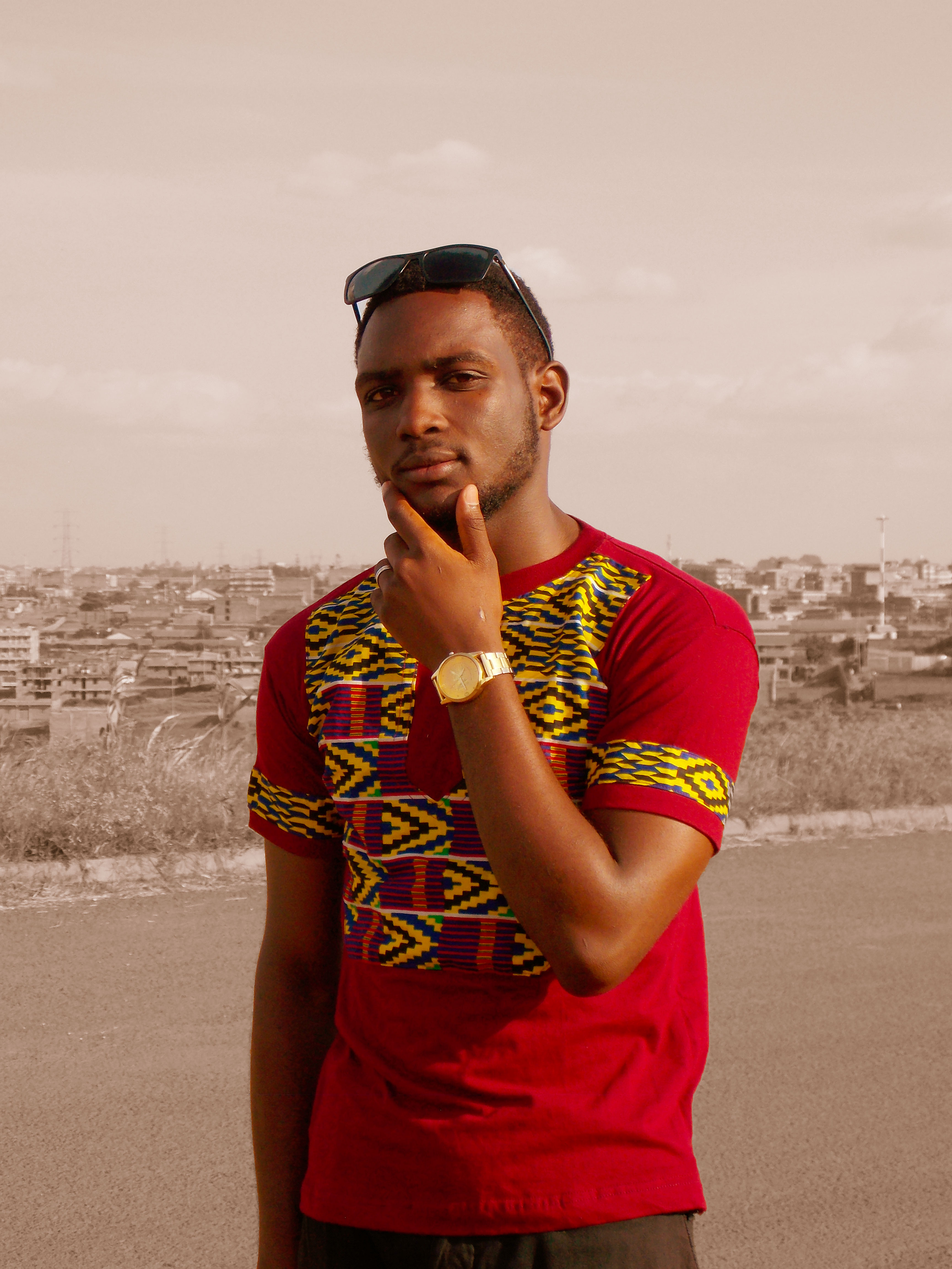
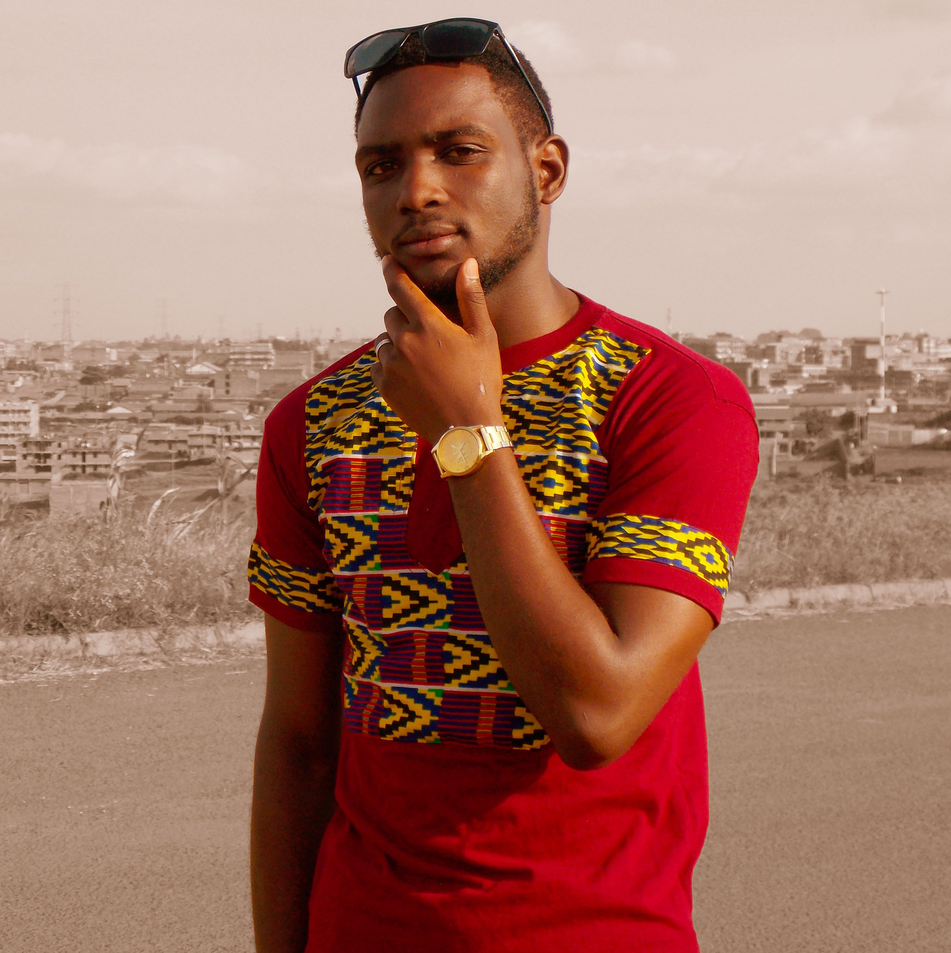
style men html page

diff --git a/men.html b/men.html
@@ -33,81 +33,52 @@
         <!--       container -->
         <div class="cards">
             <div class="card">
-                <img src="/img/img4.jpg">
+                <img src="/img/img1-men.jpg">
                 <div class="card-title">
                     <a href="#" class="toggle-info btn"> <span class="left"></span> <span class="right"></span> </a>
-                    <h2> Card title</h2>
+                    <h2>Men Red T-shirt</h2>
                 </div>
                 <div class="card-flap flap1">
-                    <div class="card-description"> This grid is an attempt to make something nice that works on touch devices. Ignoring hover states when they're not available etc.
-                    </div>
+                    <div class="card-description"></div>
                     <div class="card-flap flap2">
 <!--                        <div class="card-actions"> <a href="#" class="btn">Read more</a> </div>-->
                     </div>
                 </div>
             </div>
             <div class="card">
-               <img src="/img/img-3.jpg">
+               <img src="/img/img2-men.jpg">
                 <div class="card-title">
                     <a href="#" class="toggle-info btn"> <span class="left"></span> <span class="right"></span> </a>
-                    <h2> Card title</h2>
+                    <h2>Men Blue T-shirt</h2>
                 </div>
                 <div class="card-flap flap1">
-                    <div class="card-description"> This grid is an attempt to make something nice that works on touch devices. Ignoring hover states when they're not available etc.
-                    </div>
+                    <div class="card-description"></div>
                     <div class="card-flap flap2">
 <!--                        <div class="card-actions"> <a href="#" class="btn">Read more</a> </div>-->
                     </div>
                 </div>
             </div>
             <div class="card">
-               <img src="/img/img-1.jpg">
+               <img src="/img/img3-scarf.jpg">
                 <div class="card-title">
                     <a href="#" class="toggle-info btn"> <span class="left"></span> <span class="right"></span> </a>
-                    <h2> Card title</h2>
+                    <h2>Men Tshirt with scarf</h2>
                 </div>
                 <div class="card-flap flap1">
-                    <div class="card-description"> This grid is an attempt to make something nice that works on touch devices. Ignoring hover states when they're not available etc.
-                    </div>
+                    <div class="card-description"></div>
                     <div class="card-flap flap2">
 <!--                        <div class="card-actions"> <a href="#" class="btn">Read more</a> </div>-->
                     </div>
                 </div>
             </div>
-            <div class="card"> <img src="/img/img-2.jpg">
+            <div class="card">
+                <img src="/img/img1-men.jpg">
                 <div class="card-title">
                     <a href="#" class="toggle-info btn"> <span class="left"></span> <span class="right"></span> </a>
-                    <h2> Card title</h2>
+                    <h2>Men's Red T-shirt</h2>
                 </div>
                 <div class="card-flap flap1">
-                    <div class="card-description"> This grid is an attempt to make something nice that works on touch devices. Ignoring hover states when they're not available etc.
-                    </div>
-                    <div class="card-flap flap2">
-<!--                        <div class="card-actions"> <a href="#" class="btn">Read more</a> </div>-->
-                    </div>
-                </div>
-            </div>
-            <div class="card"> <img src="/img/img-ladies.jpg">
-                <div class="card-title">
-                    <a href="#" class="toggle-info btn"> <span class="left"></span> <span class="right"></span> </a>
-                    <h2> Card title</h2>
-                </div>
-                <div class="card-flap flap1">
-                    <div class="card-description"> This grid is an attempt to make something nice that works on touch devices. Ignoring hover states when they're not available etc.
-                    </div>
-                    <div class="card-flap flap2">
-<!--                        <div class="card-actions"> <a href="#" class="btn">Read more</a> </div>-->
-                    </div>
-                </div>
-            </div>
-            <div class="card"> <img src="/img/img1.jpg">
-                <div class="card-title">
-                    <a href="#" class="toggle-info btn"> <span class="left"></span> <span class="right"></span> </a>
-                    <h2> Card title</h2>
-                </div>
-                <div class="card-flap flap1">
-                    <div class="card-description"> This grid is an attempt to make something nice that works on touch devices. Ignoring hover states when they're not available etc.
-                    </div>
+                    <div class="card-description"></div>
                     <div class="card-flap flap2">
 <!--                        <div class="card-actions"> <a href="#" class="btn">Read more</a> </div>-->
                     </div>
@@ -116,37 +87,58 @@
             <div class="card"> <img src="/img/img2-men.jpg">
                 <div class="card-title">
                     <a href="#" class="toggle-info btn"> <span class="left"></span> <span class="right"></span> </a>
-                    <h2> Card title</h2>
+                    <h2>Men's Blue T-shirt</h2>
                 </div>
                 <div class="card-flap flap1">
-                    <div class="card-description"> This grid is an attempt to make something nice that works on touch devices. Ignoring hover states when they're not available etc.
-                    </div>
+                    <div class="card-description"></div>
                     <div class="card-flap flap2">
 <!--                        <div class="card-actions"> <a href="#" class="btn">Read more</a> </div>-->
                     </div>
                 </div>
             </div>
-            <div class="card"> <img src="/img/img3.jpg">
+            <div class="card"> <img src="/img/img3-scarf.jpg">
                 <div class="card-title">
                     <a href="#" class="toggle-info btn"> <span class="left"></span> <span class="right"></span> </a>
-                    <h2> Card title</h2>
+                    <h2>Men's Scarf</h2>
                 </div>
                 <div class="card-flap flap1">
-                    <div class="card-description"> This grid is an attempt to make something nice that works on touch devices. Ignoring hover states when they're not available etc.
-                    </div>
+                    <div class="card-description"></div>
                     <div class="card-flap flap2">
 <!--                        <div class="card-actions"> <a href="#" class="btn">Read more</a> </div>-->
                     </div>
                 </div>
             </div>
-            <div class="card"> <img src="img/img4.jpg">
+            <div class="card"> <img src="/img/img1-men.jpg">
                 <div class="card-title">
                     <a href="#" class="toggle-info btn"> <span class="left"></span> <span class="right"></span> </a>
-                    <h2> Card title</h2>
+                    <h2>Men's Red T-shirt</h2>
                 </div>
                 <div class="card-flap flap1">
-                    <div class="card-description"> This grid is an attempt to make something nice that works on touch devices. Ignoring hover states when they're not available etc.
+                    <div class="card-description"></div>
+                    <div class="card-flap flap2">
+<!--                        <div class="card-actions"> <a href="#" class="btn">Read more</a> </div>-->
                     </div>
+                </div>
+            </div>
+            <div class="card"> <img src="/img/img3-scarf.jpg">
+                <div class="card-title">
+                    <a href="#" class="toggle-info btn"> <span class="left"></span> <span class="right"></span> </a>
+                    <h2>Men's Scarf</h2>
+                </div>
+                <div class="card-flap flap1">
+                    <div class="card-description"></div>
+                    <div class="card-flap flap2">
+<!--                        <div class="card-actions"> <a href="#" class="btn">Read more</a> </div>-->
+                    </div>
+                </div>
+            </div>
+            <div class="card"> <img src="img/img2-men.jpg">
+                <div class="card-title">
+                    <a href="#" class="toggle-info btn"> <span class="left"></span> <span class="right"></span> </a>
+                    <h2>Men's Blue T-shirt</h2>
+                </div>
+                <div class="card-flap flap1">
+                    <div class="card-description"></div>
                     <div class="card-flap flap2">
 <!--                        <div class="card-actions"> <a href="#" class="btn">Read more</a> </div>-->
                     </div>
@@ -155,37 +147,34 @@
             <div class="card"> <img src="img/img3-scarf.jpg">
                 <div class="card-title">
                     <a href="#" class="toggle-info btn"> <span class="left"></span> <span class="right"></span> </a>
-                    <h2> Card title</h2>
+                    <h2>Mens Scarf</h2>
                 </div>
                 <div class="card-flap flap1">
-                    <div class="card-description"> This grid is an attempt to make something nice that works on touch devices. Ignoring hover states when they're not available etc.
-                    </div>
+                    <div class="card-description"></div>
                     <div class="card-flap flap2">
 <!--                        <div class="card-actions"> <a href="#" class="btn">Read more</a> </div>-->
                     </div>
                 </div>
             </div>
-            <div class="card"> <img src="img/logo.jpg">
+            <div class="card"> <img src="img/img1-men.jpg">
                 <div class="card-title">
                     <a href="#" class="toggle-info btn"> <span class="left"></span> <span class="right"></span> </a>
-                    <h2> Card title</h2>
+                    <h2>Men's Red T-shirt</h2>
                 </div>
                 <div class="card-flap flap1">
-                    <div class="card-description"> This grid is an attempt to make something nice that works on touch devices. Ignoring hover states when they're not available etc.
-                    </div>
+                    <div class="card-description"></div>
                     <div class="card-flap flap2">
 <!--                        <div class="card-actions"> <a href="#" class="btn">Read more</a> </div>-->
                     </div>
                 </div>
             </div>
-            <div class="card"> <img src="/img/img5.jpg">
+            <div class="card"> <img src="/img/img2-men.jpg">
                 <div class="card-title">
                     <a href="#" class="toggle-info btn"> <span class="left"></span> <span class="right"></span> </a>
-                    <h2> Card title</h2>
+                    <h2>Men's Blue T-shirt</h2>
                 </div>
                 <div class="card-flap flap1">
-                    <div class="card-description"> This grid is an attempt to make something nice that works on touch devices. Ignoring hover states when they're not available etc.
-                    </div>
+                    <div class="card-description"></div>
                     <div class="card-flap flap2">
 <!--                        <div class="card-actions"> <a href="#" class="btn">Read more</a> </div>-->
                     </div>

diff --git a/index.html b/index.html
@@ -67,7 +67,8 @@
                             <h2>men</h2>
                             <h4>Celebrate Your culture</h4>
                             <p>Get ready for Summer</p>
-                            <button class="button">Shop</button>
+                            <a href="men.html"><button class="button">Shop</button></a>
+
                         </div>
                     </div>
                 </div>

diff --git a/css/style.css b/css/style.css
@@ -54,7 +54,8 @@ div.card {
   z-index: 1;
 }
 div.card img {
-  max-width: 300px;
+  width: 350px;
+  height: 250px;
 }
 div.card div.card-title {
 /*  background: #ffffff;*/
